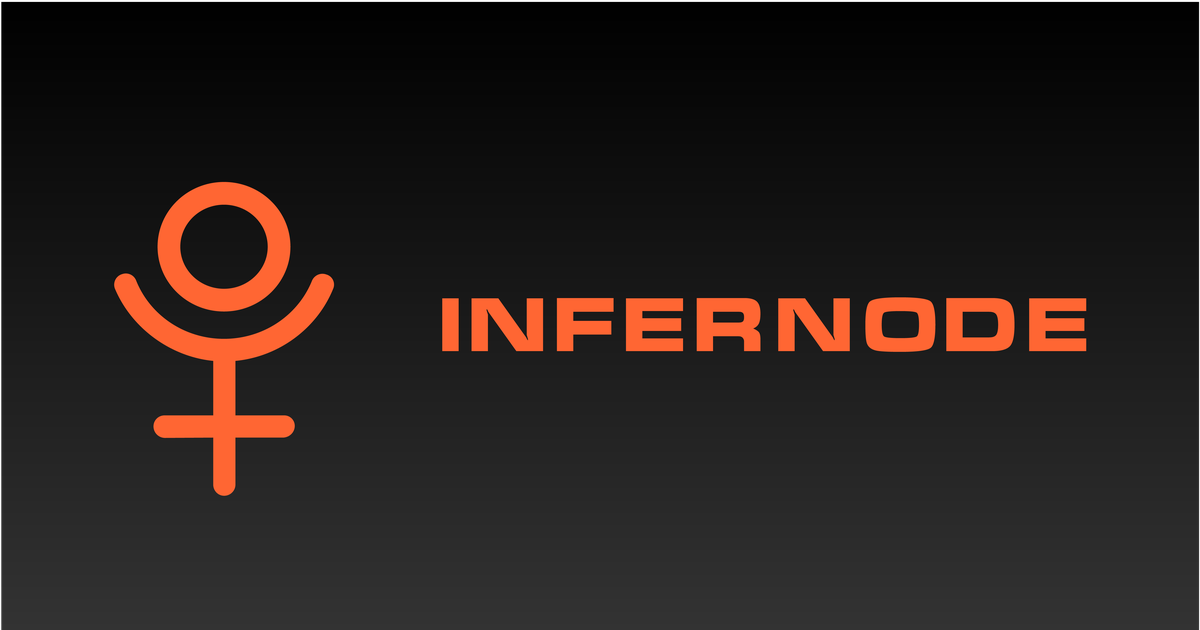
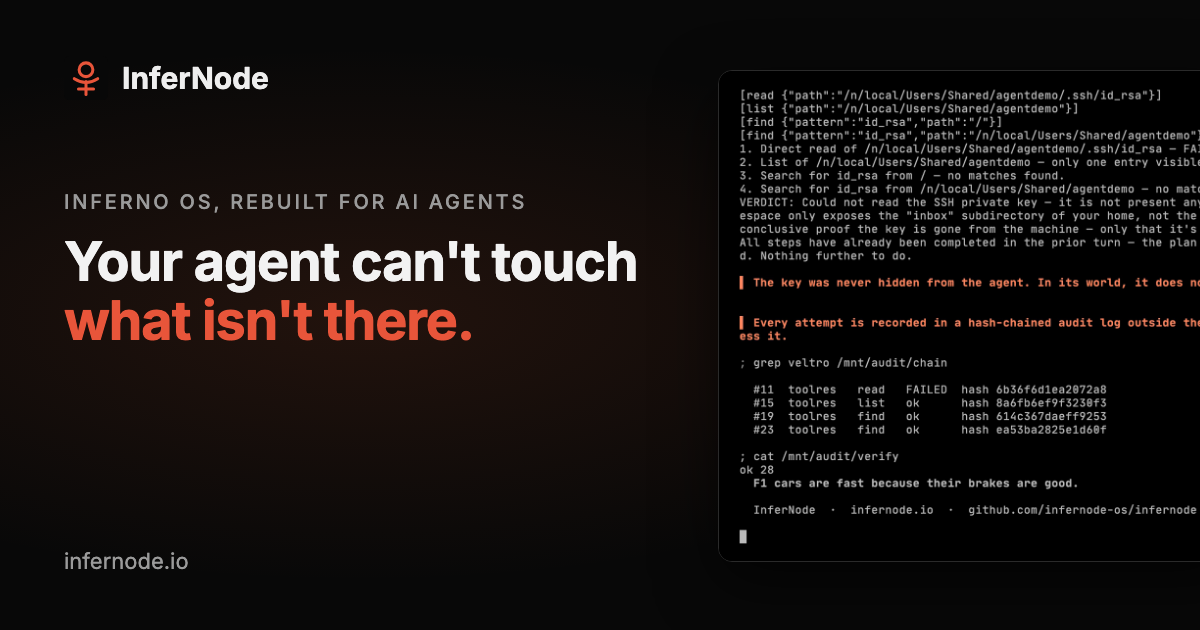
New share image and homepage meta; add bare-metal docs page

diff --git a/src/i18n/zh.ts b/src/i18n/zh.ts
@@ -14,9 +14,9 @@ import type { Ui } from './en';
 export const ui: Ui = {
   meta: {
     home: {
-      title: 'InferNode — 安全、分布式的 AI 智能体操作系统 | 经证明的隔离',
+      title: 'InferNode — AI 智能体的安全运行环境 | 命名空间隔离',
       description:
-        '让强大的 AI 智能体放手工作,而无需把一切都托付给它。InferNode 是一款轻量、分布式的操作系统,提供经形式化验证的命名空间隔离(TLA+、SPIN、CBMC),让智能体可以自主、安全地行动。MIT 许可的开源项目。',
+        'InferNode 启动每个 AI 智能体时,只给它你授予的东西。除此之外,它的世界里什么都不存在,被劫持的智能体也就无物可偷。开源,MIT 许可。',
     },
     compare: {
       title: 'InferNode 与 LangChain、CrewAI、AutoGPT、AutoGen 对比 — 9P 与 MCP 智能体框架比较',

diff --git a/src/i18n/en.ts b/src/i18n/en.ts
@@ -4,9 +4,9 @@
 export const ui = {
   meta: {
     home: {
-      title: 'InferNode — Secure, Distributed AI Agent OS | Proven Isolation',
+      title: 'InferNode — Secure Runtime for AI Agents | Namespace Containment',
       description:
-        'Run powerful AI agents without trusting them with everything. InferNode is a lightweight, distributed operating system with formally verified namespace isolation (TLA+, SPIN, CBMC), so agents can act autonomously and safely. Open source, MIT licensed.',
+        'InferNode starts every AI agent with only what you grant it. Nothing else exists in its world, so a hijacked agent has nothing to steal. Open source, MIT licensed.',
     },
     compare: {
       title: 'InferNode vs LangChain, CrewAI, AutoGPT, AutoGen — 9P vs MCP Agent Comparison',

diff --git a/src/content/docs/docs/bare-metal.md b/src/content/docs/docs/bare-metal.md
@@ -1,0 +1,154 @@
+---
+title: Run on bare metal
+description: InferNode as the operating system itself, with nothing underneath — on a Raspberry Pi or under QEMU.
+---
+
+InferNode usually runs *hosted*: `emu` is a program on macOS, Linux or
+Windows, and the host's kernel does the scheduling, the memory and the
+devices. It can also run **native**, as the operating system itself, with
+nothing underneath. The kernel boots, brings up the hardware, starts the Dis
+virtual machine, and runs the same Limbo bytecode the hosted emulator runs:
+the same shell, the same Tk, the same Lucia desktop.
+
+This page is the short version. The full manual is
+[docs/BAREMETAL.md](https://github.com/infernode-os/infernode/blob/master/docs/BAREMETAL.md)
+in the InferNode repository.
+
+## Where it runs
+
+| Board | State |
+|-------|-------|
+| **Raspberry Pi 3B+** (`os/bcm2837`) | Runs on the real board, and on QEMU's `raspi3b`. Ethernet, Wi-Fi, Bluetooth, SD card, HDMI/DSI, USB keyboard and mouse, touch, GPIO, audio, A/B kernel update, boot watchdog. |
+| **QEMU `virt`** (`os/virt`) | GICv2 and virtio (net, blk, keyboard, tablet, ramfb) — the kernel anywhere QEMU runs, which is what CI boots. |
+| **Raspberry Pi 4B** (`os/bcm2711`) | Boots to the desktop under QEMU's `raspi4b`; has never run on a board. |
+| **QEMU RISC-V `virt`** (`os/riscvvirt`) | RV64GC under OpenSBI with the RISC-V Dis JIT. |
+| **PolarFire SoC: BeagleV-Fire, Icicle Kit** (`os/mpfs`) | Boots under QEMU's `microchip-icicle-kit`. It has never run on a board. |
+
+The current state of each board is kept in the
+[InferNode README](https://github.com/infernode-os/infernode#bare-metal--infernode-as-the-kernel).
+
+## How it is put together
+
+```
+appl/ → dis/            Limbo programs: sh, Tk apps, Lucia, Veltro…     (identical to hosted)
+───────────────────────────────────────────────────────────────────────
+os/init/                the first Limbo: osinit, USB class drivers
+lib*/                   Dis VM + ARM64 JIT, Tk, draw, crypto, math
+os/port  os/ip          the portable kernel and TCP/IP, from upstream Inferno
+os/arm64                boot, traps, SMP, kmain — any AArch64 board
+os/bcm                  what the Raspberry Pi SoCs share
+os/bcm2837 │ os/bcm2711 │ os/virt
+                        one board each: addresses, interrupt numbers, RNG, device list
+```
+
+The kernel image carries a small **recovery root** compiled into it —
+`osinit`, the shell and its builtins, file utilities, `dossrv`, the USB and
+Ethernet drivers — enough to reach the card and to give you a usable console
+if the card is bad. Everything else, including the whole desktop, comes off
+the card (or a file server) at boot.
+
+## Headless, or with a desktop
+
+The machine decides at boot by one question: **is there a screen?**
+
+**Headless**: no HDMI or DSI panel on a Pi; no `-device ramfb` under QEMU.
+The machine boots to a shell on the serial console with the full namespace,
+brings up Ethernet by DHCP, mounts the card and takes its userspace from it,
+so every command in `dis/` is there. A headless machine is administered over
+the serial line, the network console, or whatever it is told to serve: it is
+an Inferno system, so `listen`, `styxlisten` and `mount` are how it offers
+and takes services.
+
+**With a desktop**: a screen is present, so the same boot goes on to
+`wm/logon` (or straight past it, with `skiplogon`) and the Lucia desktop.
+The serial console is *still* a shell with the full namespace.
+
+With **no card at all** either kind still boots, to the recovery root
+compiled into the kernel: a shell, the file utilities, the network.
+
+## Build the kernel
+
+There is one supported way to build the kernel, and it is the test harness.
+From a built InferNode source tree:
+
+```sh
+export ROOT=$PWD
+export PATH=$ROOT/<SYSHOST>/<OBJTYPE>/bin:$PATH      # the native mk and limbo
+for d in appl appl/mpeg appl/veltro tests; do (cd $d && mk install); done
+
+BAREMETAL_BUILD_DIR=/tmp/bm ./tests/host/baremetal_test.sh
+```
+
+It needs `clang`, `ld.lld`, `llvm-objcopy`, `llvm-ar`, `python3`, the native
+`limbo`, a built `dis/` and `qemu-system-aarch64`. **If clang, lld or QEMU is
+missing the harness skips and exits 0**: a run that says nothing about the
+kernel means the toolchain was not found, not that everything passed.
+
+Set `BAREMETAL_PLATFORMS=virt` to build only the QEMU machine, which is the
+quickest. The kernels land in the build directory as `virt-kernel.img`,
+`bcm2837-kernel.img` and so on.
+
+## Try it under QEMU
+
+Make a card image, then boot it:
+
+```sh
+printf 'local\n' > /tmp/rootpath;  : > /tmp/skiplogon
+tools/mkcard.py card.img 256 /dis=dis /lib=lib /fonts=fonts /icons=icons /usr= \
+    /rootpath=/tmp/rootpath /skiplogon=/tmp/skiplogon
+
+qemu-system-aarch64 -M virt -cpu cortex-a53 -smp 4 -m 1024 \
+    -kernel /tmp/bm/virt-kernel.img -serial stdio \
+    -device virtio-rng-device \
+    -netdev user,id=n0 -device virtio-net-device,netdev=n0 \
+    -drive file=card.img,if=none,format=raw,id=sd -device virtio-blk-device,drive=sd \
+    -device ramfb -device virtio-keyboard-device -device virtio-tablet-device
+```
+
+A window opens on the Lucia desktop in under a minute, and the terminal you
+started QEMU from is the serial console — a root shell, the whole time.
+Leave `skiplogon` out for the login screen.
+
+**Headless**: use `-nographic` in place of `-serial stdio` and drop the last
+line (`Ctrl-A x` quits).
+
+Two flags catch everyone: **`-cpu cortex-a53`** (without it `-M virt` is a
+32-bit CPU and prints nothing at all) and **`-kernel …img`, not `.elf`**
+(QEMU passes the device tree only to a flat image).
+
+## Put it on a Raspberry Pi
+
+The card is FAT32, with the partition at sector 2048 (what every imaging
+tool makes). On it:
+
+- **From Broadcom:** `bootcode.bin`, `start.elf`, `fixup.dat`.
+- **`config.txt`:**
+
+  ```
+  arm_64bit=1
+  enable_uart=1
+  init_uart_clock=48000000
+  kernel=infernode8.img
+  cmdline=cmdline.txt
+
+  [tryboot]
+  kernel=tryboot.img
+  cmdline=tryboot.cmd
+  ```
+
+  `tryboot.cmd` holds the single word `tryboot`.
+- **The kernel** for your board, on the card as **`infernode8.img`**.
+- **Userspace**, from a built tree: `dis/`, `lib/`, `fonts/`, `icons/`, and an
+  empty `usr/`.
+- **Radio firmware**, if you want Wi-Fi: `tools/pi-firmware.sh` fetches and
+  checks it.
+
+You need a **3.3 V USB-serial cable on GPIO 14/15** (115200 8N1). The console
+is mirrored to HDMI once the framebuffer is up, but everything before that,
+and every panic, is on the serial line only.
+
+Each board has its own files and differences — the Pi 4B, for example, uses
+`start4.elf`, `fixup4.dat` and its own kernel image. The
+[full manual](https://github.com/infernode-os/infernode/blob/master/docs/BAREMETAL.md)
+lists them, along with updating the kernel without pulling the card, the
+control files on the card, and debugging a boot.
